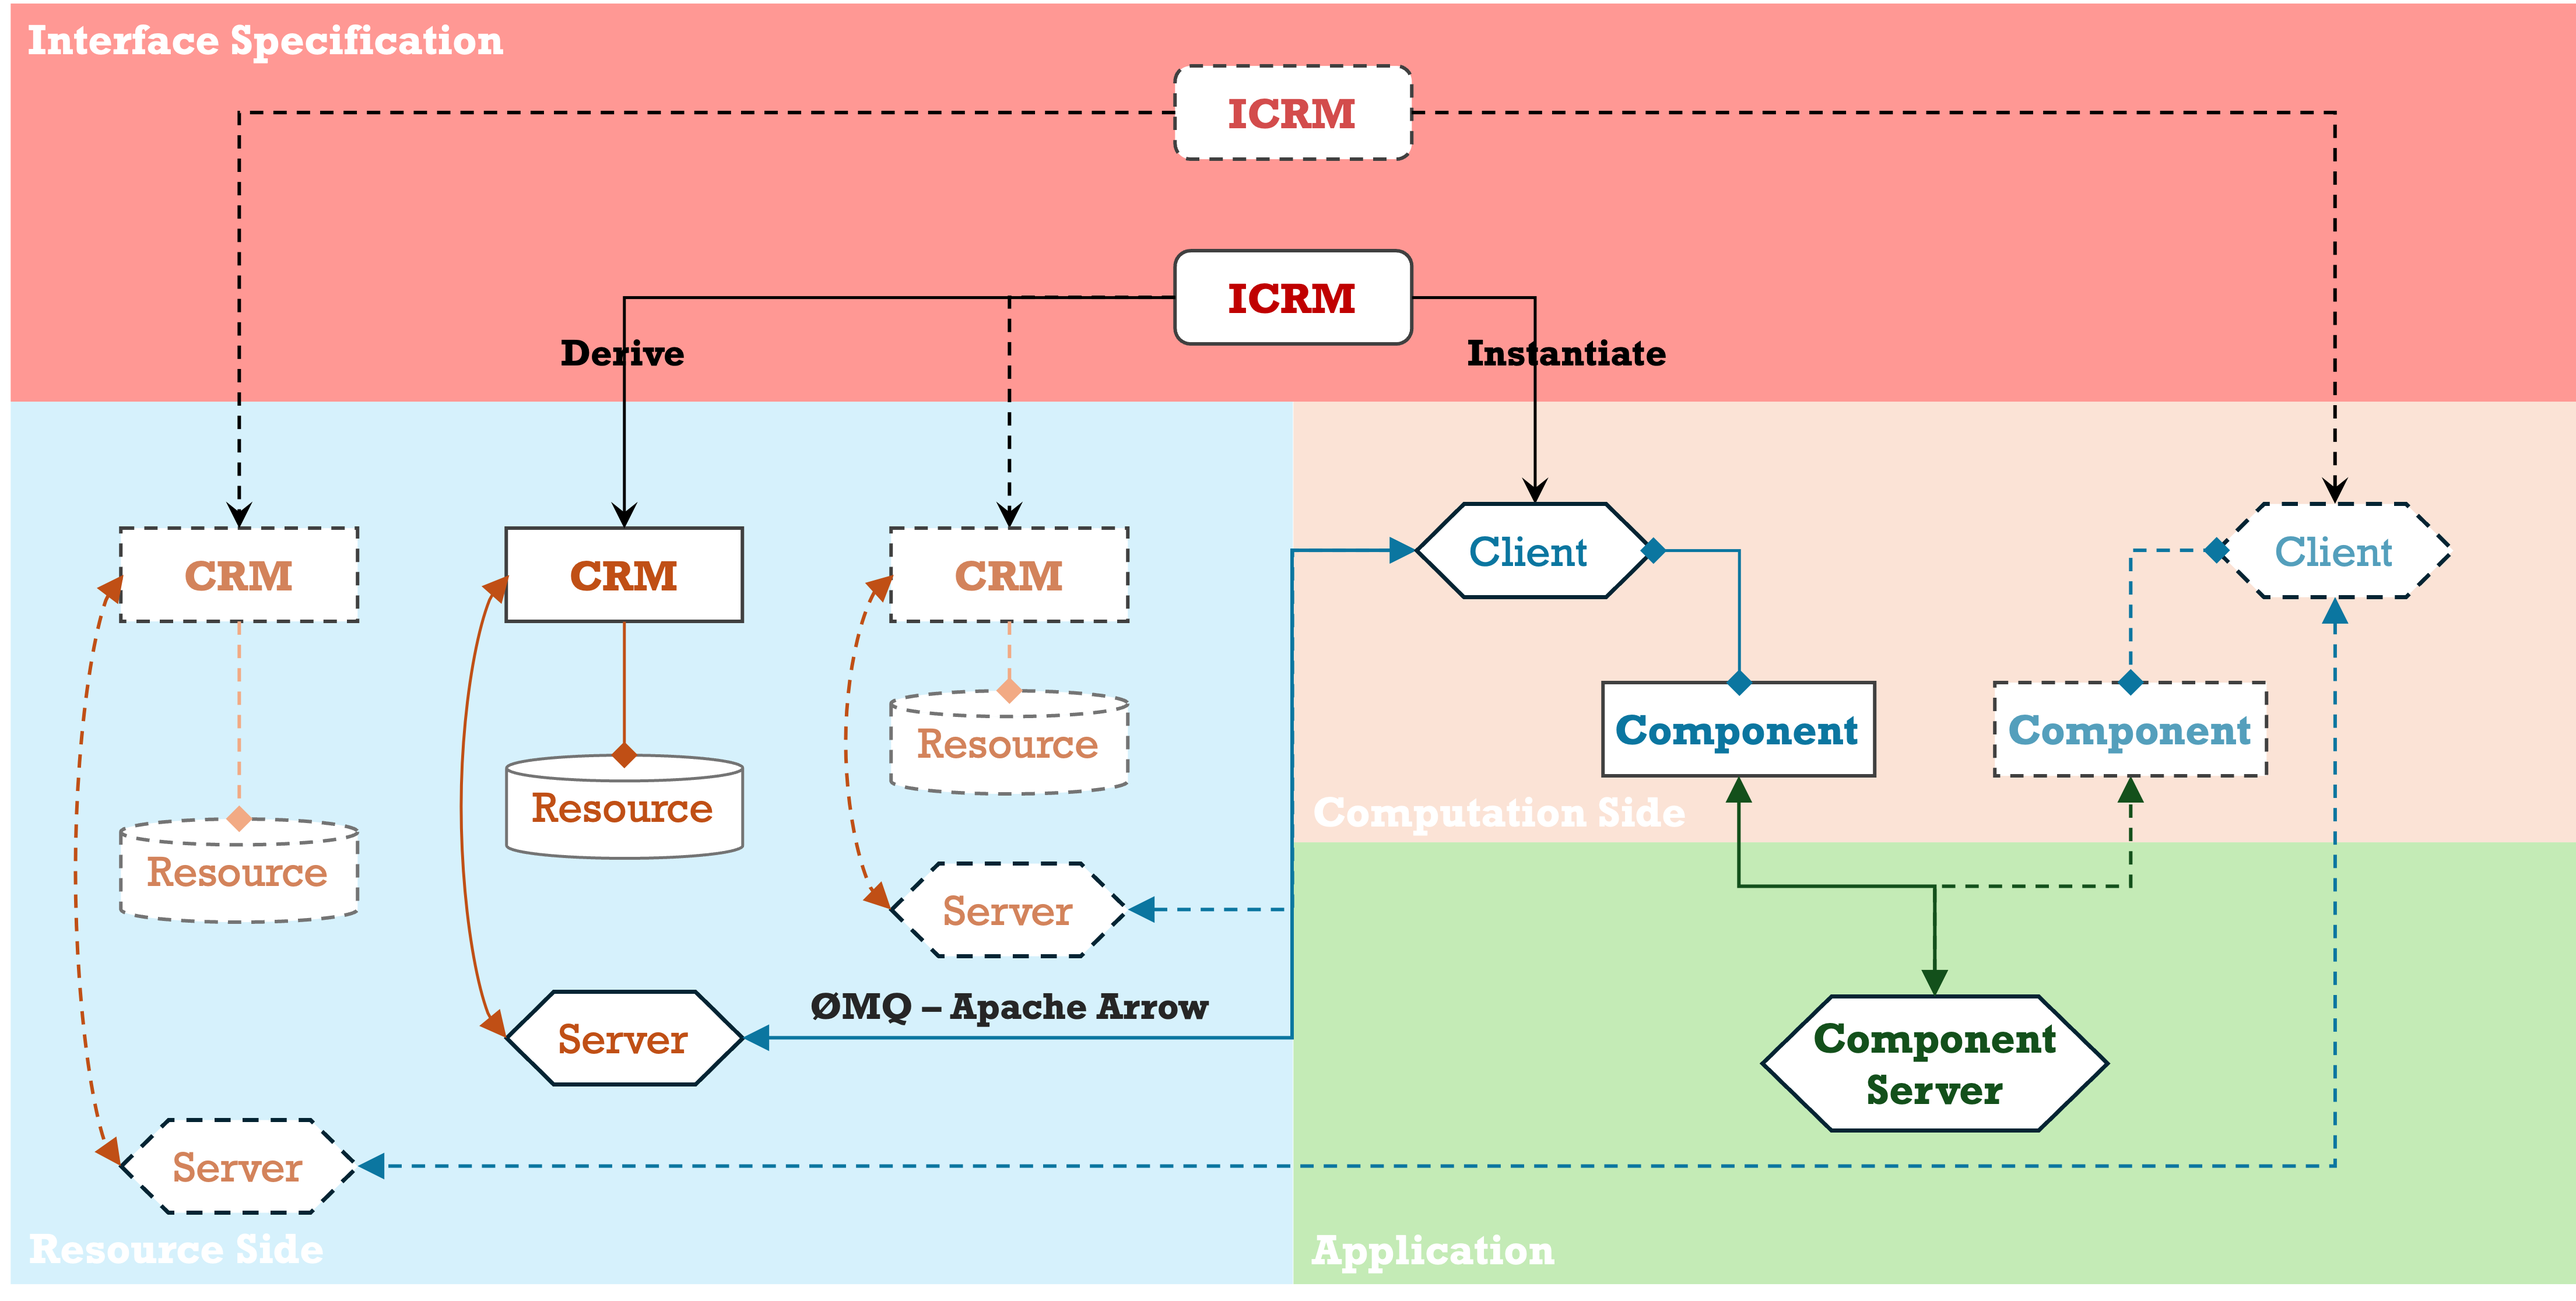
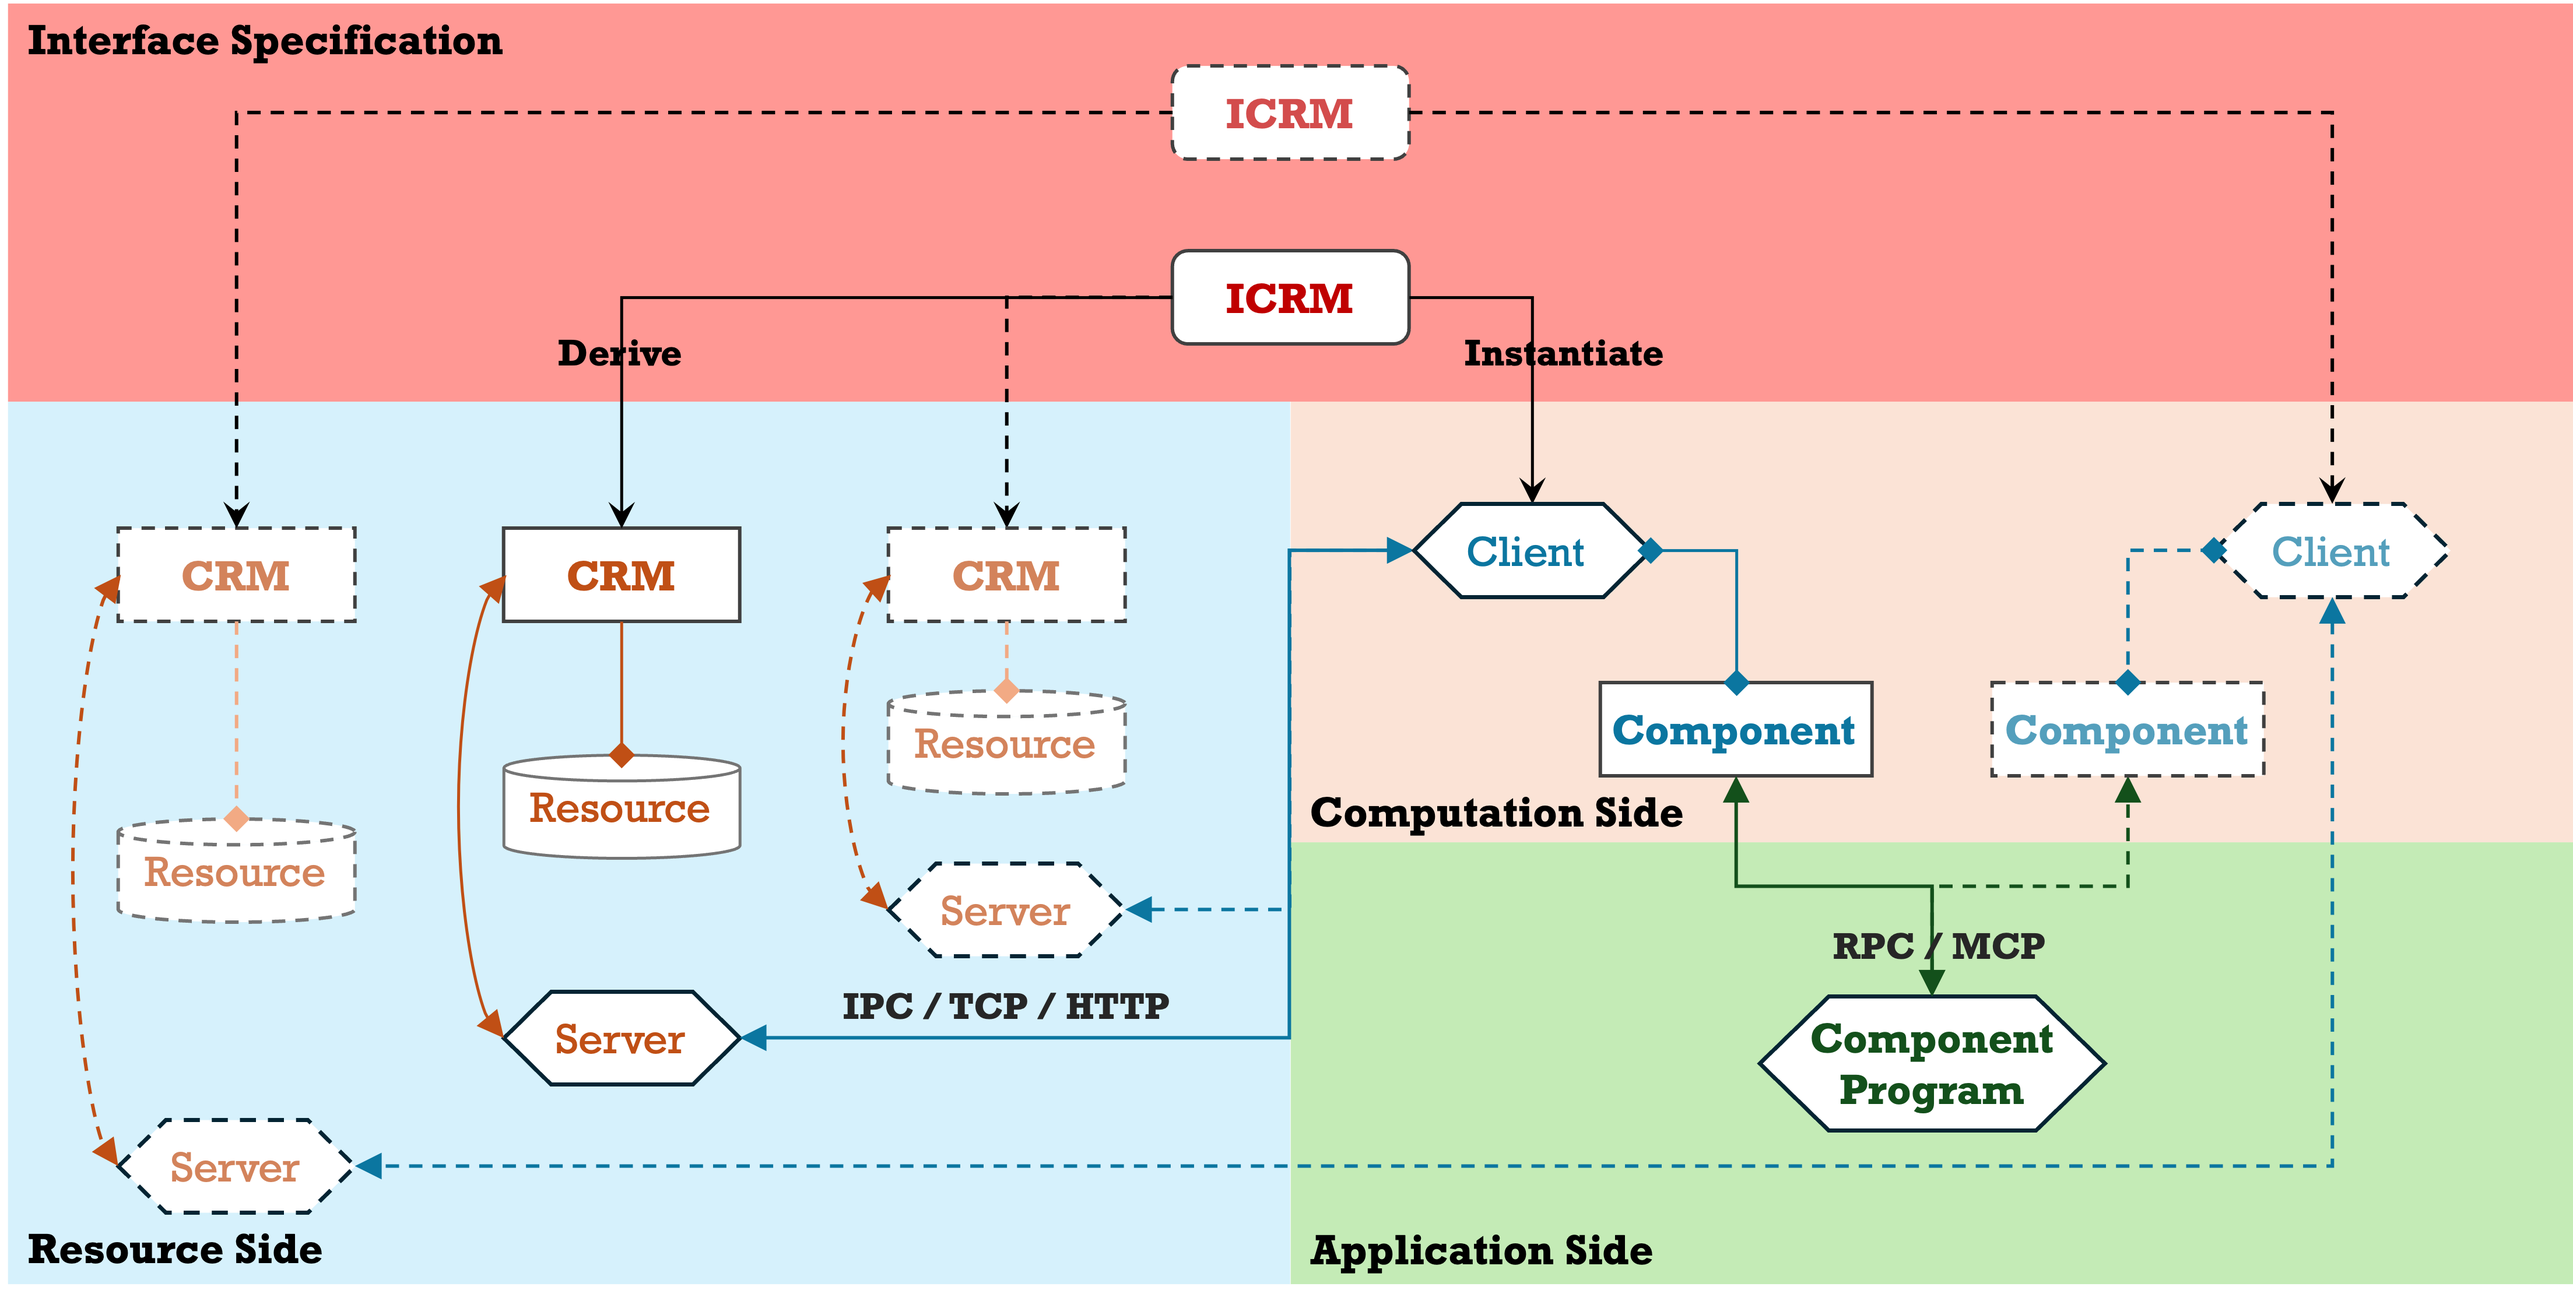
docs: update README with installation instructions and improve component terminology; remove main.py

diff --git a/README.md b/README.md
@@ -1,6 +1,6 @@
 # C-Two (0.1.23)
 
-C-Two is a **type-safe Remote Procedure Call (RPC) framework** designed for distributed resource computation systems. The framework provides a structured abstraction layer that enables remote method invocation between client components and Core Resource Models (CRM) with automatic serialization and protocol-agnostic communication.
+C-Two is a **type-safe Remote Procedure Call (RPC) framework** designed for distributed resource computation systems. The framework provides a structured abstraction layer that enables remote method invocation between client **Components** and **Core Resource Models (CRM)** with automatic serialization and protocol-agnostic communication.
 
 ## Framework Overview
 
@@ -27,6 +27,40 @@ Server-side Core Resource Models implementing domain-specific business logic and
 
 ### Transport Layer
 Protocol-agnostic communication infrastructure supporting multiple transport mechanisms (IPC, TCP, HTTP, MCP) with automatic protocol detection, connection management and message serialization. The framework automatically selects the appropriate transport implementation based on the address scheme.
+
+## Installation
+
+### PyPI Installation
+
+Install the latest stable version from PyPI using pip:
+
+```bash
+pip install c-two
+```
+
+### Package Management with uv
+
+For better dependency resolution, use [uv](https://github.com/astral-sh/uv):
+
+```bash
+# Add c-two to your project
+uv add c-two
+```
+
+### Development Installation with uv
+
+For development, testing, or accessing the latest features:
+
+```bash
+# Clone the repository
+git clone https://github.com/world-in-progress/c-two.git
+
+# Navigate to the project directory
+cd c-two
+
+# Install development dependencies
+uv sync
+```
 
 ## Implementation Guide
 
@@ -257,21 +291,6 @@ C-Two is particularly suited for:
 - Python ≥ 3.10
 - Type annotation support
 - Network connectivity for distributed deployment
-
-### Protocol Dependencies
-
-**Core Framework**
-- `pyarrow` - High-performance data serialization
-- `zmq` - ZeroMQ for TCP protocol support
-
-**HTTP Protocol Support**
-- `starlette` - Lightweight ASGI framework for HTTP server
-- `requests` - HTTP client library  
-- `uvicorn` - ASGI server (automatically used by HTTP server)
-
-**Development & Integration**
-- `mcp[cli]` - Model Context Protocol integration
-- `httpx` - Modern HTTP client for advanced scenarios
 
 ---
 
